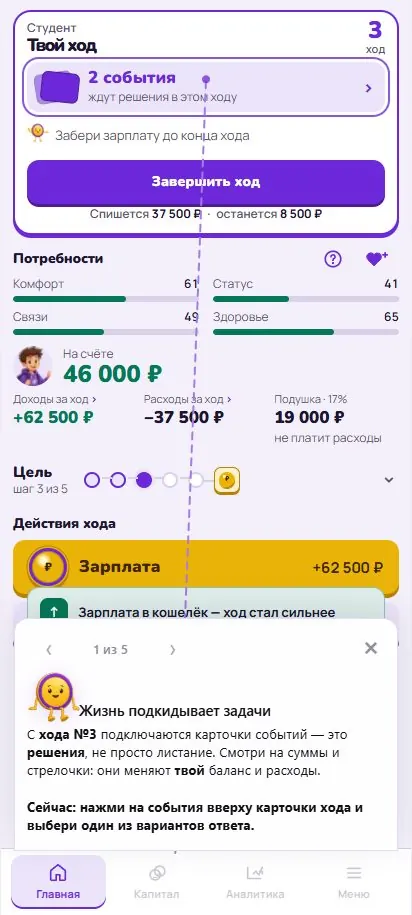
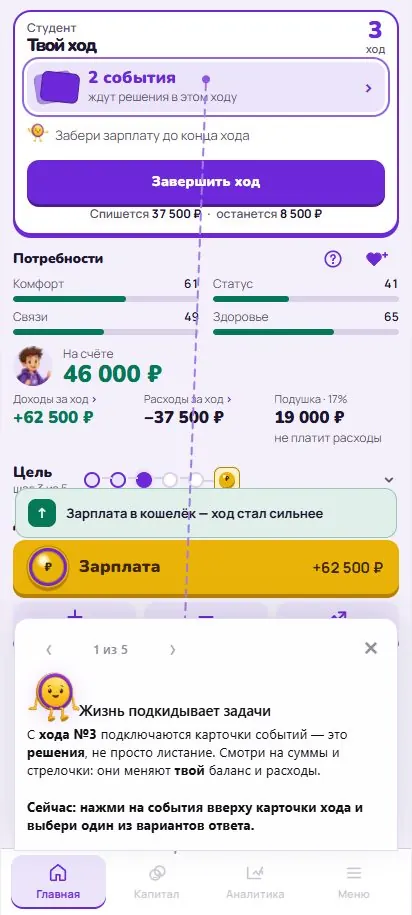
Ink: тост зарплаты над подсказкой, подсказка у низа на итоге хода (замечания PO к раунду 2)

diff --git a/design-lab/board-game/ink-decision-round/index.html b/design-lab/board-game/ink-decision-round/index.html
@@ -13,7 +13,7 @@
       <p>Скриншоты prod на e2e-стенде (backend SQLite :8011 + Vite :5181), ветка <code>claude/game-gate-prep-39c10b</code>. Партия «Студент», светлая тема.
       Слева — стиль по умолчанию <b>ink</b> (<code>design/system/runtime/styles/mqx/ink.css</code>), справа — <b>classic</b> (<code>?style=classic</code>).
       Процент — доля пикселей, отличающихся между стилями на одном кадре.</p>
-      <p class="lab-head__status">2026-11-02, раунд 2: ink доработан по 8 пунктам PO (см. «Что меняется»). Статус — <b>пробный, не ★</b>: перенос в канон — после «утверждаем ink».</p>
+      <p class="lab-head__status">2026-11-02, раунд 3: ink доработан по 8 пунктам PO и двум замечаниям к раунду 2 (тост над подсказкой, подсказка у низа на итоге хода) (см. «Что меняется»). Статус — <b>пробный, не ★</b>: перенос в канон — после «утверждаем ink».</p>
     </header>
 
     <main class="page">
@@ -33,7 +33,7 @@
         <section class="cmp">
           <header class="cmp__head">
             <h3>Главная (ход 3, без онбординга)</h3>
-            <span class="cmp__badge">13,6% пикселей отличается</span>
+            <span class="cmp__badge">12,3% пикселей отличается</span>
           </header>
           <p class="cmp__note">П. 1: с обводкой — карта хода, цель, действия хода, таббар. Без обводки — потребности, «На счёте», доходы / расходы / подушка (как в classic).</p>
           <div class="cmp__pair">
@@ -44,9 +44,9 @@
         <section class="cmp">
           <header class="cmp__head">
             <h3>Главная с онбордингом (ход 3)</h3>
-            <span class="cmp__badge">16,7% пикселей отличается</span>
+            <span class="cmp__badge">16,5% пикселей отличается</span>
           </header>
-          <p class="cmp__note">П. 2: подсказка Монетки лежит на линии таббара и закрывает её — по ширине как таббар, сверху своя чернильная линия, как у листов.</p>
+          <p class="cmp__note">П. 2: подсказка Монетки лежит на линии таббара и закрывает её — по ширине как таббар, сверху своя чернильная линия, как у листов. Тост «Зарплата в кошелёк» при видимой подсказке стоит над ней (раунд 3, в обоих стилях).</p>
           <div class="cmp__pair">
             <figure><figcaption>ink · по умолчанию</figcaption><img loading="lazy" src="./assets/shots/m412-ink-01b-home-turn3.webp" alt="Главная с онбордингом (ход 3), стиль ink" /></figure>
             <figure><figcaption>classic · <code>?style=classic</code></figcaption><img loading="lazy" src="./assets/shots/m412-classic-01b-home-turn3.webp" alt="Главная с онбордингом (ход 3), стиль classic" /></figure>
@@ -77,7 +77,7 @@
         <section class="cmp">
           <header class="cmp__head">
             <h3>Карусель события</h3>
-            <span class="cmp__badge">37,4% пикселей отличается</span>
+            <span class="cmp__badge">45,0% пикселей отличается</span>
           </header>
           <p class="cmp__note">П. 5: полоса — цвет домена, как в classic, без линии; чип — белый без обводки; вместо книжки — «?» в кружке, как у потребностей; реплика Монетки и варианты — ink. Экран затемнён целиком — подсказка прижата к низу, карта стоит над ней. Иконка «?» — в обоих стилях (это разметка, не CSS).</p>
           <div class="cmp__pair">
@@ -88,9 +88,9 @@
         <section class="cmp">
           <header class="cmp__head">
             <h3>Итог хода</h3>
-            <span class="cmp__badge">17,9% пикселей отличается</span>
+            <span class="cmp__badge">28,6% пикселей отличается</span>
           </header>
-          <p class="cmp__note">П. 6: «На счёте» — главная карта, клетка поля с чернильным краем и золотой тенью; «Дальше» — фишка; списания — без рамки.</p>
+          <p class="cmp__note">П. 6: подсказка прижата к низу (раунд 3), «Дальше» не перекрыта; «На счёте» — главная карта, клетка поля с чернильным краем и золотой тенью; «Дальше» — фишка; списания — без рамки.</p>
           <div class="cmp__pair">
             <figure><figcaption>ink · по умолчанию</figcaption><img loading="lazy" src="./assets/shots/m412-ink-06-turn-summary.webp" alt="Итог хода, стиль ink" /></figure>
             <figure><figcaption>classic · <code>?style=classic</code></figcaption><img loading="lazy" src="./assets/shots/m412-classic-06-turn-summary.webp" alt="Итог хода, стиль classic" /></figure>
@@ -124,7 +124,7 @@
         <section class="cmp">
           <header class="cmp__head">
             <h3>Главная (ход 3, без онбординга)</h3>
-            <span class="cmp__badge">4,3% пикселей отличается</span>
+            <span class="cmp__badge">3,9% пикселей отличается</span>
           </header>
           <p class="cmp__note">П. 1: с обводкой — карта хода, цель, действия хода, таббар. Без обводки — потребности, «На счёте», доходы / расходы / подушка (как в classic).</p>
           <div class="cmp__pair">
@@ -135,9 +135,9 @@
         <section class="cmp">
           <header class="cmp__head">
             <h3>Главная с онбордингом (ход 3)</h3>
-            <span class="cmp__badge">4,9% пикселей отличается</span>
+            <span class="cmp__badge">4,8% пикселей отличается</span>
           </header>
-          <p class="cmp__note">П. 2: подсказка Монетки лежит на линии таббара и закрывает её — по ширине как таббар, сверху своя чернильная линия, как у листов.</p>
+          <p class="cmp__note">П. 2: подсказка Монетки лежит на линии таббара и закрывает её — по ширине как таббар, сверху своя чернильная линия, как у листов. Тост «Зарплата в кошелёк» при видимой подсказке стоит над ней (раунд 3, в обоих стилях).</p>
           <div class="cmp__pair">
             <figure><figcaption>ink · по умолчанию</figcaption><img loading="lazy" src="./assets/shots/d1440-ink-01b-home-turn3.webp" alt="Главная с онбордингом (ход 3), стиль ink" /></figure>
             <figure><figcaption>classic · <code>?style=classic</code></figcaption><img loading="lazy" src="./assets/shots/d1440-classic-01b-home-turn3.webp" alt="Главная с онбордингом (ход 3), стиль classic" /></figure>
@@ -168,7 +168,7 @@
         <section class="cmp">
           <header class="cmp__head">
             <h3>Карусель события</h3>
-            <span class="cmp__badge">11,3% пикселей отличается</span>
+            <span class="cmp__badge">11,6% пикселей отличается</span>
           </header>
           <p class="cmp__note">П. 5: полоса — цвет домена, как в classic, без линии; чип — белый без обводки; вместо книжки — «?» в кружке, как у потребностей; реплика Монетки и варианты — ink. Экран затемнён целиком — подсказка прижата к низу, карта стоит над ней. Иконка «?» — в обоих стилях (это разметка, не CSS).</p>
           <div class="cmp__pair">
@@ -179,9 +179,9 @@
         <section class="cmp">
           <header class="cmp__head">
             <h3>Итог хода</h3>
-            <span class="cmp__badge">4,6% пикселей отличается</span>
+            <span class="cmp__badge">8,9% пикселей отличается</span>
           </header>
-          <p class="cmp__note">П. 6: «На счёте» — главная карта, клетка поля с чернильным краем и золотой тенью; «Дальше» — фишка; списания — без рамки.</p>
+          <p class="cmp__note">П. 6: подсказка прижата к низу (раунд 3), «Дальше» не перекрыта; «На счёте» — главная карта, клетка поля с чернильным краем и золотой тенью; «Дальше» — фишка; списания — без рамки.</p>
           <div class="cmp__pair">
             <figure><figcaption>ink · по умолчанию</figcaption><img loading="lazy" src="./assets/shots/d1440-ink-06-turn-summary.webp" alt="Итог хода, стиль ink" /></figure>
             <figure><figcaption>classic · <code>?style=classic</code></figcaption><img loading="lazy" src="./assets/shots/d1440-classic-06-turn-summary.webp" alt="Итог хода, стиль classic" /></figure>
@@ -235,7 +235,6 @@
         <ul>
           <li><b>«Доходы / Расходы» на Главной нажимаются, но без обводки</b> (п. 1). Это исключение из правила «нажимаемое — с тенью»; на нажатие намекает только «›» у подписи. В Капитале те же доходы и расходы — фишки с тенью.</li>
           <li><b>Экраны до партии</b> (вход, сохранения, выбор жизни) и <b>содержимое подсказки</b> — по-прежнему classic. Карта партии и кнопки Меню в ink, а те же компоненты на экране сохранений — нет.</li>
-          <li><b>«Дальше» на итоге хода перекрыт тостом «Подушка пополнена» и подсказкой</b> — видно на кадре. Это не ink: в classic так же. Отдельный баг.</li>
           <li><b>Подсказка онбординга закрывает «Действия хода»</b> ниже карты (кадр «Главная с онбордингом»): прокрутка доступна, но кнопки под подсказкой не видны без скролла. Было и до доработки.</li>
           <li><b>Два стиля в prod.</b> e2e и unit проверяют только ink; classic никто не проверяет. После решения переключатель стоит снять.</li>
           <li><b>Хрупкость слоя.</b> Около 800 строк переопределений по классам prod; переименование класса молча снимает ink с блока.</li>

diff --git a/design/system/runtime/styles/mqx/guidance.css b/design/system/runtime/styles/mqx/guidance.css
@@ -510,6 +510,16 @@ body.mqx-page--guidance-active .mqx-sheet-root--portal {
   );
 }
 
+/* Тост награды (MqxJuiceGainFeedback, «Зарплата в кошелёк») привязан к низу контента Главной —
+   при полоске Монетки он уходил под неё. Пока полоска видна — над ней, как тосты ToastHost. */
+.mqx-page--guidance-active .mqx-juice-toast {
+  position: fixed;
+  left: max(var(--mqx-dash-inline-pad, 14px), calc(50% - 240px + var(--mqx-dash-inline-pad, 14px)));
+  right: max(var(--mqx-dash-inline-pad, 14px), calc(50% - 240px + var(--mqx-dash-inline-pad, 14px)));
+  bottom: calc(var(--mqx-guidance-strip-lift, 0px) + var(--mq-sp-3));
+  z-index: 546;
+}
+
 /* Пунктир к якорю не рисуем, пока якорь закрыт оверлеем (карусель событий, итоги хода). */
 body.mqx-events-overlay-open .mqx-guidance-anchor-link,
 body:has(.mqx-juice-ritual-root--open) .mqx-guidance-anchor-link {

diff --git a/frontend-react/src/styles/mqx/guidance.css b/frontend-react/src/styles/mqx/guidance.css
@@ -510,6 +510,16 @@ body.mqx-page--guidance-active .mqx-sheet-root--portal {
   );
 }
 
+/* Тост награды (MqxJuiceGainFeedback, «Зарплата в кошелёк») привязан к низу контента Главной —
+   при полоске Монетки он уходил под неё. Пока полоска видна — над ней, как тосты ToastHost. */
+.mqx-page--guidance-active .mqx-juice-toast {
+  position: fixed;
+  left: max(var(--mqx-dash-inline-pad, 14px), calc(50% - 240px + var(--mqx-dash-inline-pad, 14px)));
+  right: max(var(--mqx-dash-inline-pad, 14px), calc(50% - 240px + var(--mqx-dash-inline-pad, 14px)));
+  bottom: calc(var(--mqx-guidance-strip-lift, 0px) + var(--mq-sp-3));
+  z-index: 546;
+}
+
 /* Пунктир к якорю не рисуем, пока якорь закрыт оверлеем (карусель событий, итоги хода). */
 body.mqx-events-overlay-open .mqx-guidance-anchor-link,
 body:has(.mqx-juice-ritual-root--open) .mqx-guidance-anchor-link {

diff --git a/design-lab/landing-refresh-20261030/dist/ds/runtime-ink.css b/design-lab/landing-refresh-20261030/dist/ds/runtime-ink.css
@@ -195,9 +195,15 @@
   box-shadow: none;
 }
 
-/* Карусель затемняет весь экран вместе с таббаром — подсказка прижата к низу, карта над ней */
-:root[data-mqx-style='ink'] body:has(.events-overlay-root) .mqx-guidance-strip {
+/* Карусель и итог хода закрывают весь экран вместе с таббаром — подсказка прижата к низу,
+   содержимое над ней */
+:root[data-mqx-style='ink'] body:has(.events-overlay-root) .mqx-guidance-strip,
+:root[data-mqx-style='ink'] body:has(.mqx-juice-ritual-root--open) .mqx-guidance-strip {
   bottom: 0;
+}
+
+:root[data-mqx-style='ink'] .mqx-page--guidance-active .mqx-juice-ritual {
+  padding-bottom: calc(16px + var(--mqx-guidance-strip-offset, 0px) + 8px);
 }
 
 :root[data-mqx-style='ink'] .events-overlay-root {

diff --git a/design/system/runtime-ink.css b/design/system/runtime-ink.css
@@ -195,9 +195,15 @@
   box-shadow: none;
 }
 
-/* Карусель затемняет весь экран вместе с таббаром — подсказка прижата к низу, карта над ней */
-:root[data-mqx-style='ink'] body:has(.events-overlay-root) .mqx-guidance-strip {
+/* Карусель и итог хода закрывают весь экран вместе с таббаром — подсказка прижата к низу,
+   содержимое над ней */
+:root[data-mqx-style='ink'] body:has(.events-overlay-root) .mqx-guidance-strip,
+:root[data-mqx-style='ink'] body:has(.mqx-juice-ritual-root--open) .mqx-guidance-strip {
   bottom: 0;
+}
+
+:root[data-mqx-style='ink'] .mqx-page--guidance-active .mqx-juice-ritual {
+  padding-bottom: calc(16px + var(--mqx-guidance-strip-offset, 0px) + 8px);
 }
 
 :root[data-mqx-style='ink'] .events-overlay-root {

diff --git a/design/system/runtime/styles/mqx/ink.css b/design/system/runtime/styles/mqx/ink.css
@@ -195,9 +195,15 @@
   box-shadow: none;
 }
 
-/* Карусель затемняет весь экран вместе с таббаром — подсказка прижата к низу, карта над ней */
-:root[data-mqx-style='ink'] body:has(.events-overlay-root) .mqx-guidance-strip {
+/* Карусель и итог хода закрывают весь экран вместе с таббаром — подсказка прижата к низу,
+   содержимое над ней */
+:root[data-mqx-style='ink'] body:has(.events-overlay-root) .mqx-guidance-strip,
+:root[data-mqx-style='ink'] body:has(.mqx-juice-ritual-root--open) .mqx-guidance-strip {
   bottom: 0;
+}
+
+:root[data-mqx-style='ink'] .mqx-page--guidance-active .mqx-juice-ritual {
+  padding-bottom: calc(16px + var(--mqx-guidance-strip-offset, 0px) + 8px);
 }
 
 :root[data-mqx-style='ink'] .events-overlay-root {

diff --git a/frontend-react/src/styles/mqx/ink.css b/frontend-react/src/styles/mqx/ink.css
@@ -195,9 +195,15 @@
   box-shadow: none;
 }
 
-/* Карусель затемняет весь экран вместе с таббаром — подсказка прижата к низу, карта над ней */
-:root[data-mqx-style='ink'] body:has(.events-overlay-root) .mqx-guidance-strip {
+/* Карусель и итог хода закрывают весь экран вместе с таббаром — подсказка прижата к низу,
+   содержимое над ней */
+:root[data-mqx-style='ink'] body:has(.events-overlay-root) .mqx-guidance-strip,
+:root[data-mqx-style='ink'] body:has(.mqx-juice-ritual-root--open) .mqx-guidance-strip {
   bottom: 0;
+}
+
+:root[data-mqx-style='ink'] .mqx-page--guidance-active .mqx-juice-ritual {
+  padding-bottom: calc(16px + var(--mqx-guidance-strip-offset, 0px) + 8px);
 }
 
 :root[data-mqx-style='ink'] .events-overlay-root {

diff --git a/landing/site/ds/runtime-ink.css b/landing/site/ds/runtime-ink.css
@@ -195,9 +195,15 @@
   box-shadow: none;
 }
 
-/* Карусель затемняет весь экран вместе с таббаром — подсказка прижата к низу, карта над ней */
-:root[data-mqx-style='ink'] body:has(.events-overlay-root) .mqx-guidance-strip {
+/* Карусель и итог хода закрывают весь экран вместе с таббаром — подсказка прижата к низу,
+   содержимое над ней */
+:root[data-mqx-style='ink'] body:has(.events-overlay-root) .mqx-guidance-strip,
+:root[data-mqx-style='ink'] body:has(.mqx-juice-ritual-root--open) .mqx-guidance-strip {
   bottom: 0;
+}
+
+:root[data-mqx-style='ink'] .mqx-page--guidance-active .mqx-juice-ritual {
+  padding-bottom: calc(16px + var(--mqx-guidance-strip-offset, 0px) + 8px);
 }
 
 :root[data-mqx-style='ink'] .events-overlay-root {

diff --git a/docs/CHANGELOG.md b/docs/CHANGELOG.md
@@ -37,6 +37,7 @@ aliases:
 | Инфра | PR-04: на `main` включены required checks «Backend pytest» и «Frontend unit + guardrails» (branch protection через `gh api`; ревью не обязательны, E2E не обязателен) | `204fa0d` |
 | Docs | План «победа в два акта» (PR-18 → PR-21, DRAFT): 13 задач MQ-ACT, расчёт порога акта 2 по эталонам `chain_runner` — одного X на все шаблоны нет ([`PLAN_victory-acts`](plans/PLAN_victory-acts.md)) | — |
 | Lab | Цель в два акта: «Акт N из 2» A / B / C и финалы актов 1 и 2 (`dashboard/goal-acts-round`). Статус **review** | — |
+| UI | Тост «Зарплата в кошелёк» больше не прячется под подсказкой Монетки (в обоих стилях); в ink на итоге хода подсказка прижата к низу и не закрывает «Дальше» | — |
 | UI | «Чернильный край», доработка по 8 пунктам PO: обводка у главной карты и нажимаемого, информация без обводки; подсказка онбординга на линии таббара, в карусели — у низа; ink на итоге хода, Аналитике и Меню; «?» вместо книжки на карте события. Не ★ | — |
 | Lab | Цель в два акта, раунд 2 по замечаниям PO: вариант A, одна шкала на оба акта с особой точкой цели акта 1; акт не прерывает игру — «Акт 1 пройден» и «Дальше — акт 2» на итоге хода. План `PLAN_victory-acts` обновлён. Статус **review** | — |
 | Lab | «Чернильный край» ↔ classic: скриншоты prod 412 и 1440, риски, что не тронуто, маскоты — материал для решения PO (`board-game/ink-decision-round`) | — |

diff --git a/design-lab/board-game/APPROVED.md b/design-lab/board-game/APPROVED.md
@@ -103,5 +103,8 @@
 - Итог хода: «На счёте» — белая клетка с чернильным краем и золотой тенью, «Дальше» — фишка, списания — без рамки.
 - Аналитика: «Счёт и подушка» — главная карта; метрики, график, подсказка — без рамок.
 - Меню (вкладка в партии): карта партии — главная, «Новая игра» / «Все сохранения» — фишки; экраны до партии (`.mqx-pg`) не тронуты.
+- Замечания PO к раунду 2 (2026-11-02): на итоге хода подсказка тоже прижата к низу (экран закрыт целиком, как при карусели); тост «Зарплата в кошелёк» при видимой подсказке стоит над ней (`guidance.css`, в обоих стилях).
+
+Итог доработки PO: «остальное — ок» (2026-11-02). Это ещё не ★: стиль остаётся пробным до явного «утверждаем ink».
 
 После игры: ★ с переносом правил в инварианты выше и снятием переключателя — или откат (удалить `ink.css` и вызов `applyMqxStyle`).
